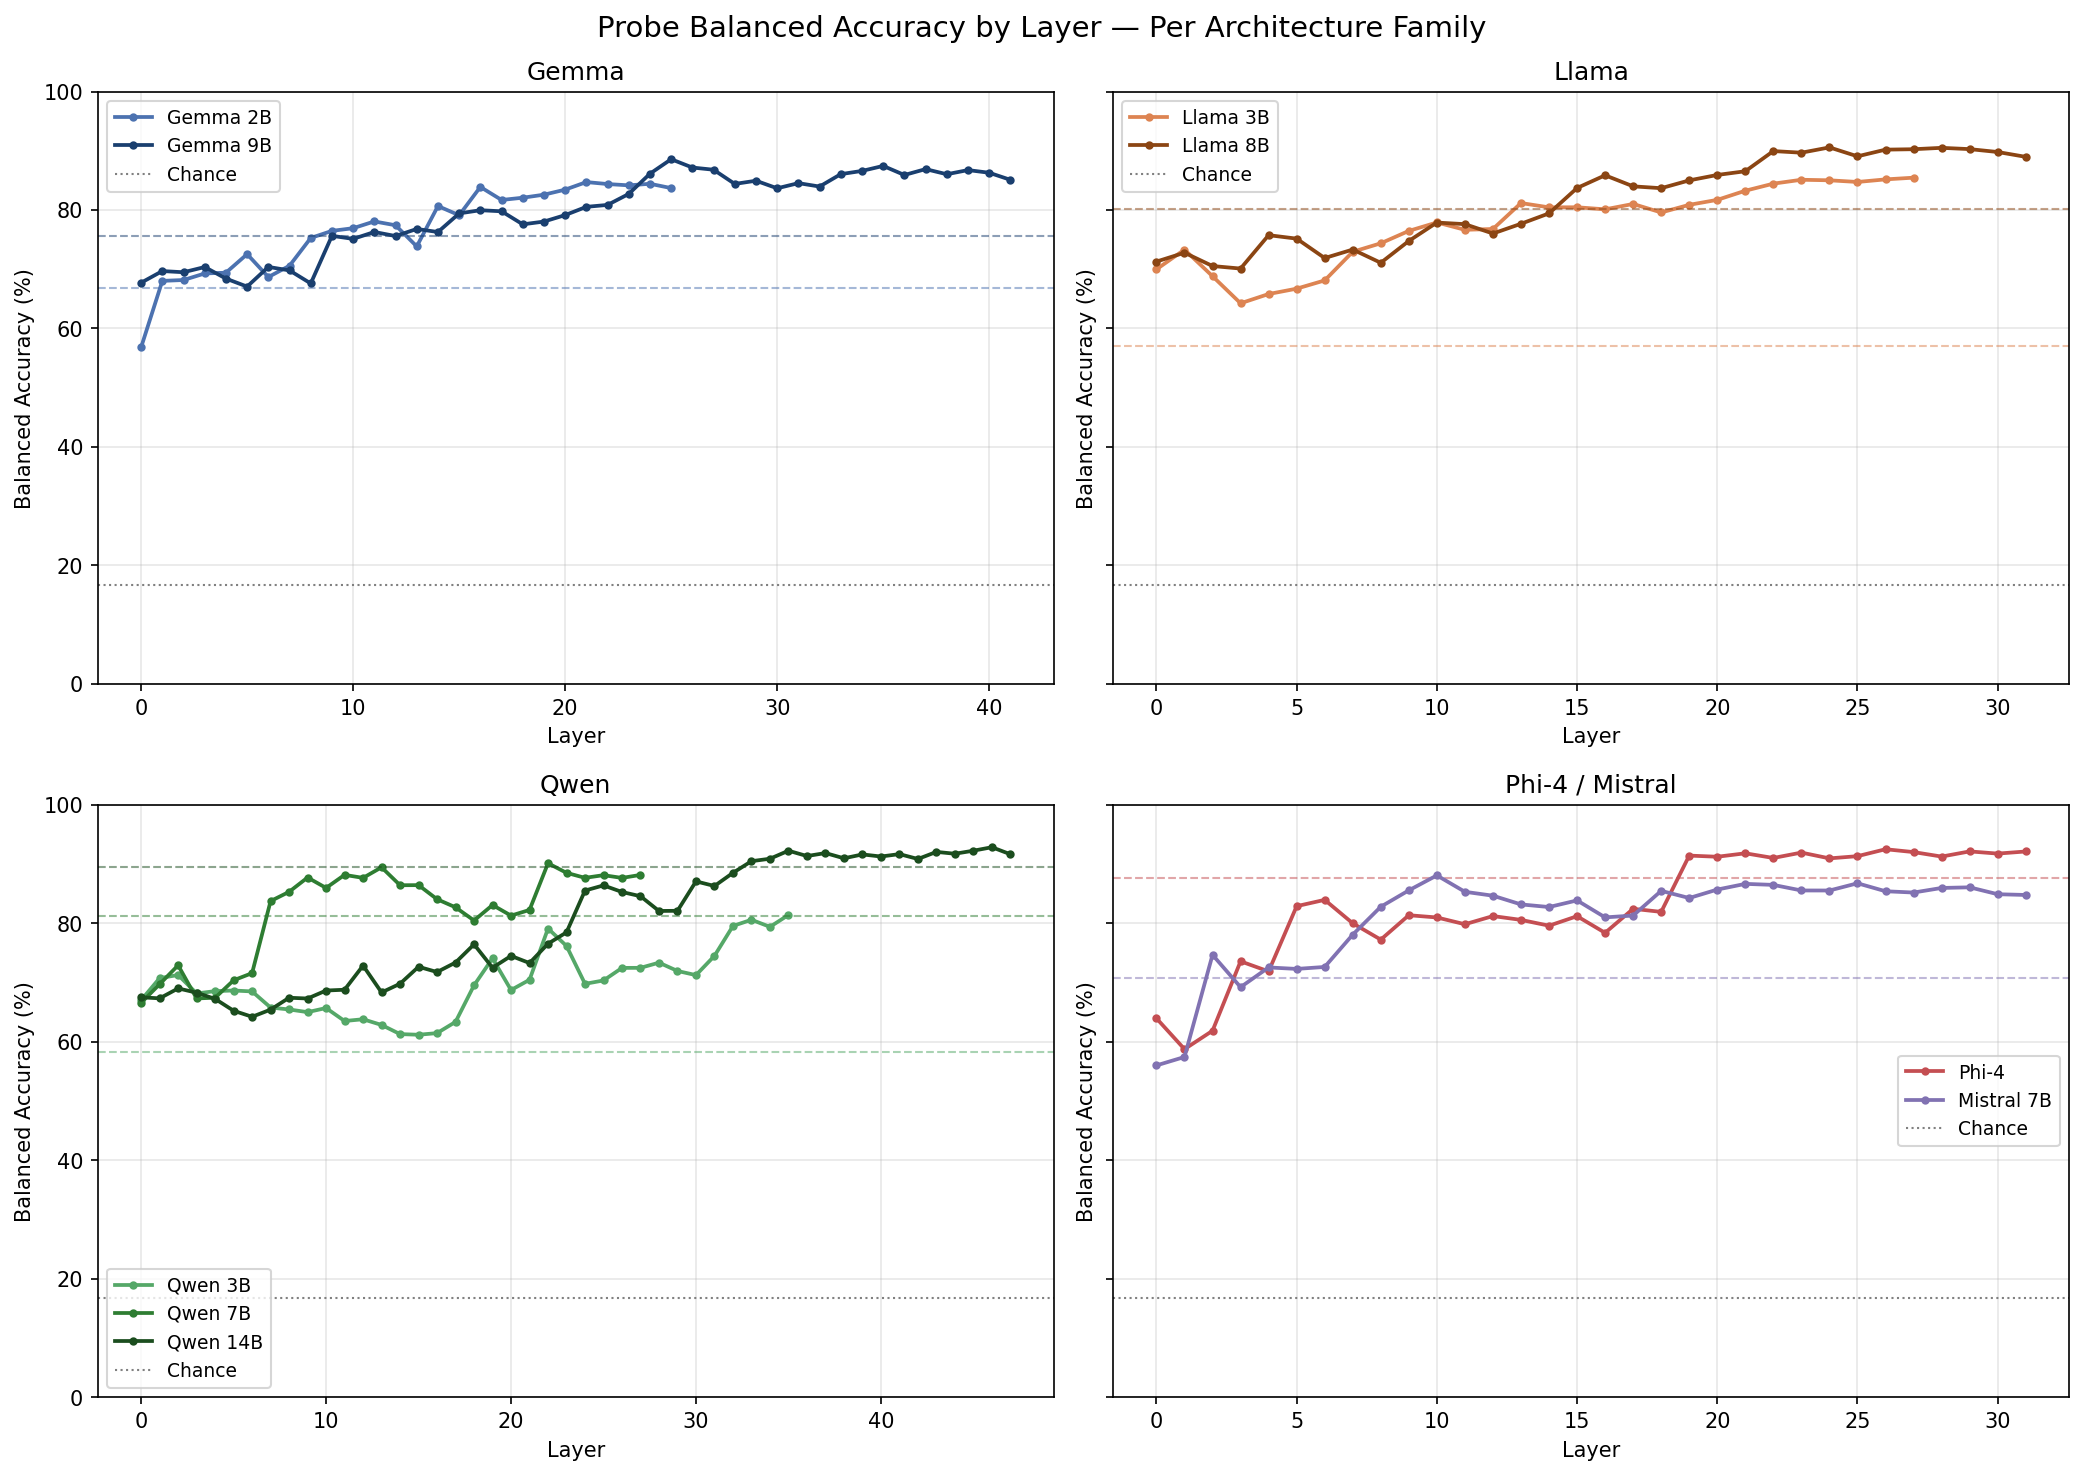
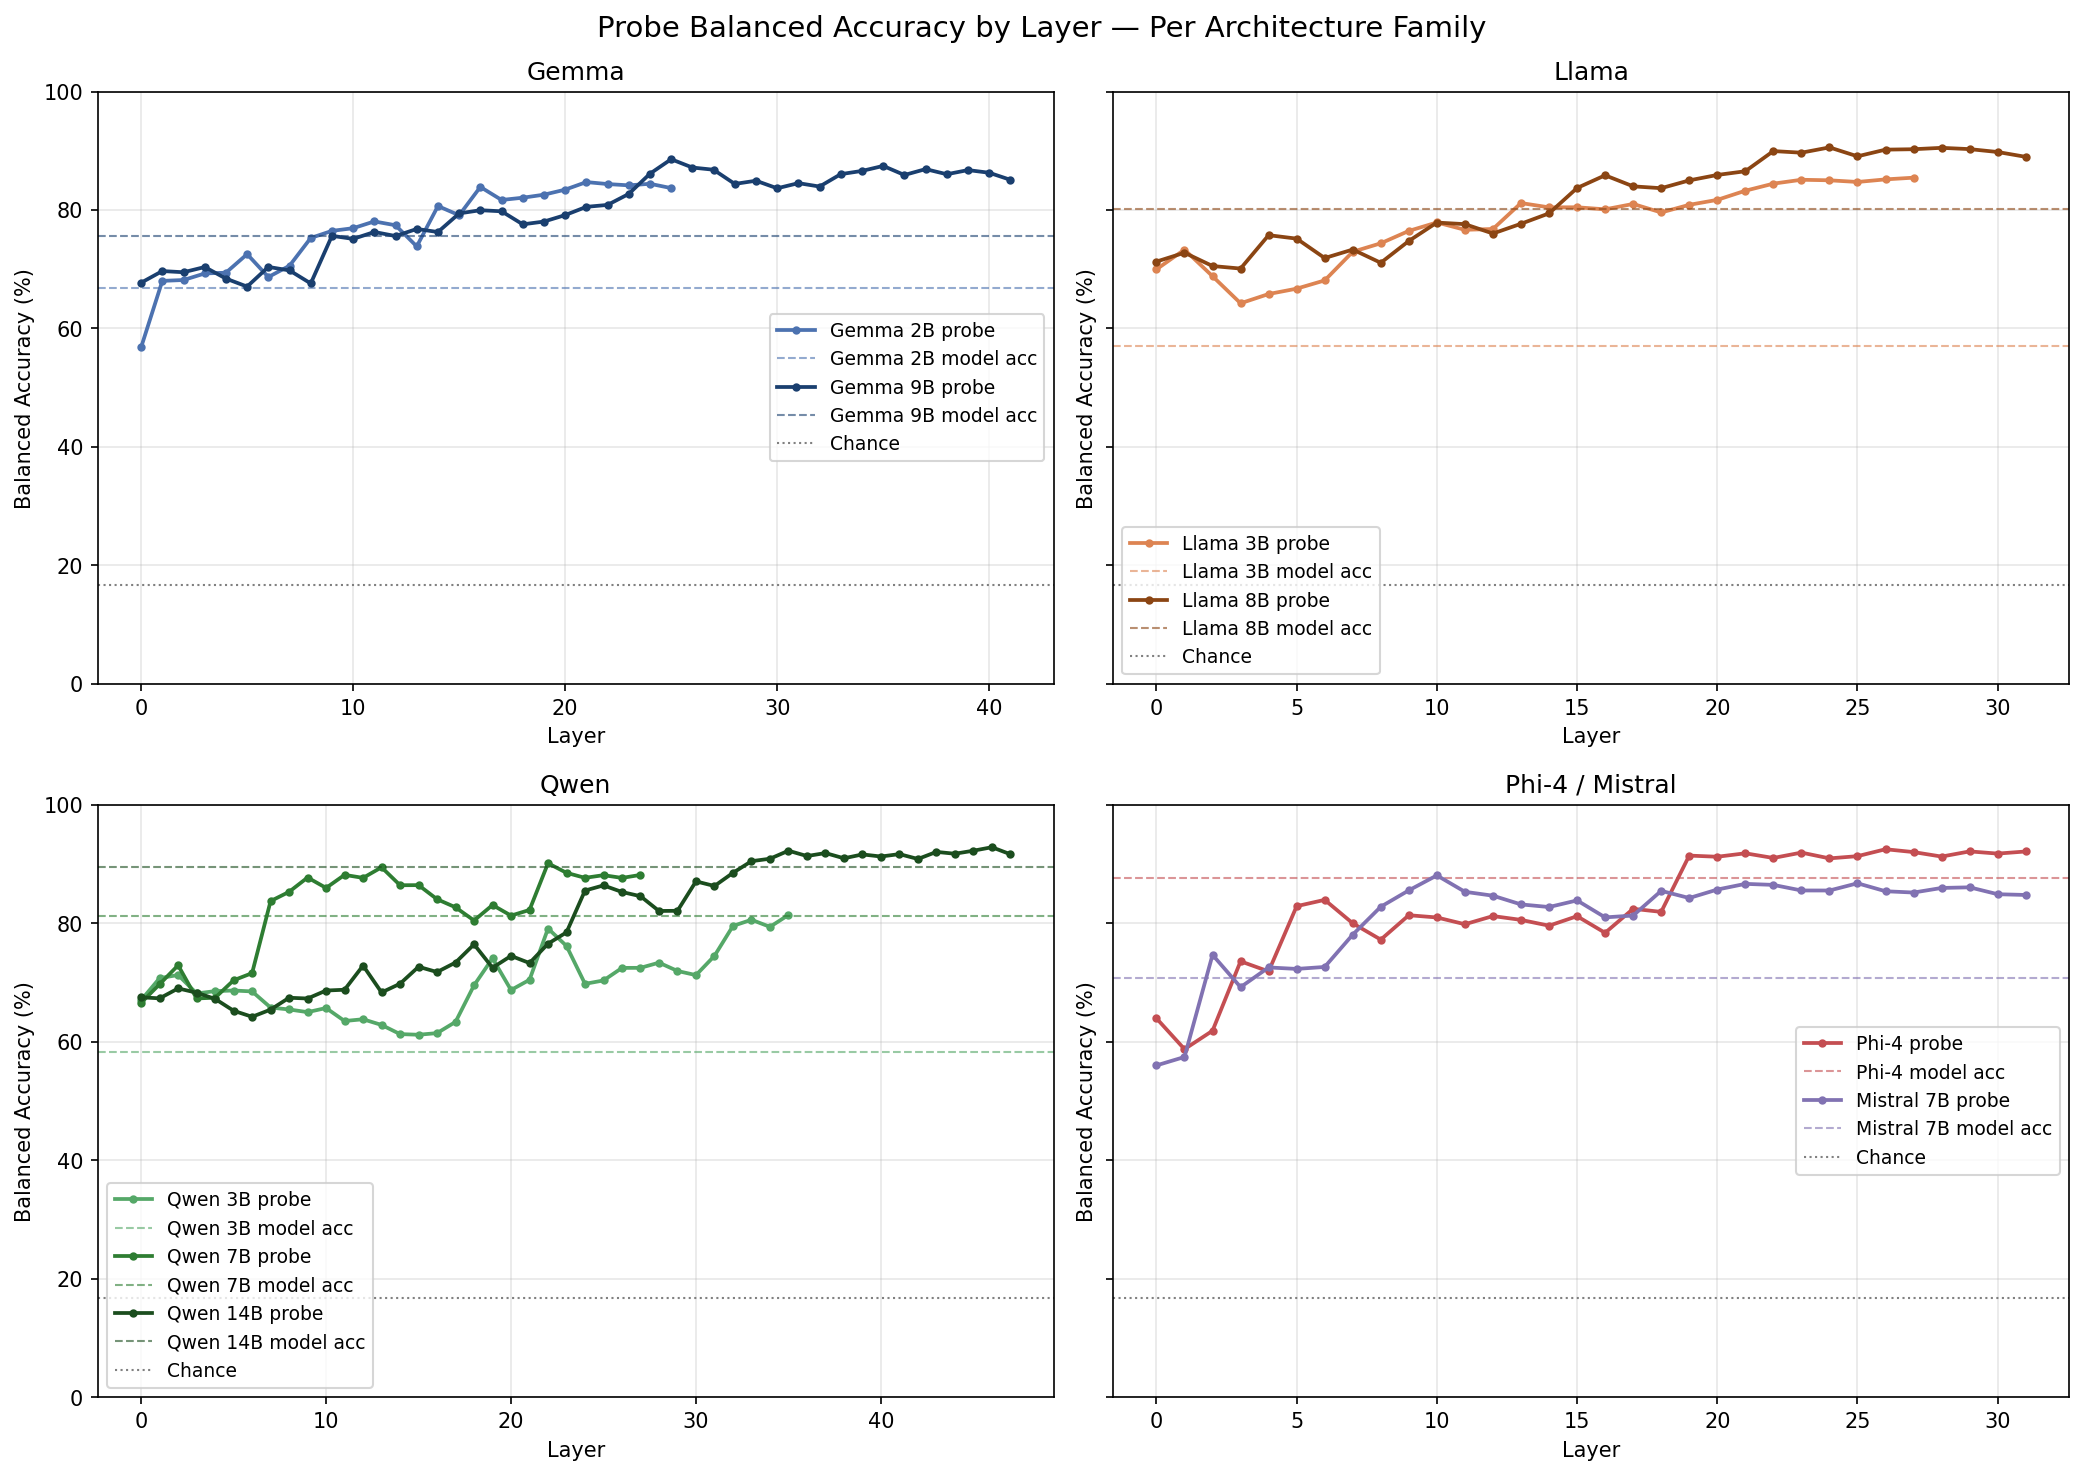
updating legend for clarity

diff --git a/probing_analysis.py b/probing_analysis.py
@@ -165,14 +165,16 @@ for ax, (family, members) in zip(axes.flat, FAMILIES.items()):
             markersize=3,
             linewidth=1.8,
             color=MODEL_COLORS[name],
-            label=name,
+            label=f"{name} probe",
         )
+
         ax.axhline(
             y=d["model_acc"] * 100,
             color=MODEL_COLORS[name],
             linestyle="--",
             linewidth=1,
-            alpha=0.5,
+            alpha=0.6,
+            label=f"{name} model acc",
         )
 
     ax.axhline(y=CHANCE * 100, color="gray", linestyle=":", linewidth=1, label="Chance")
